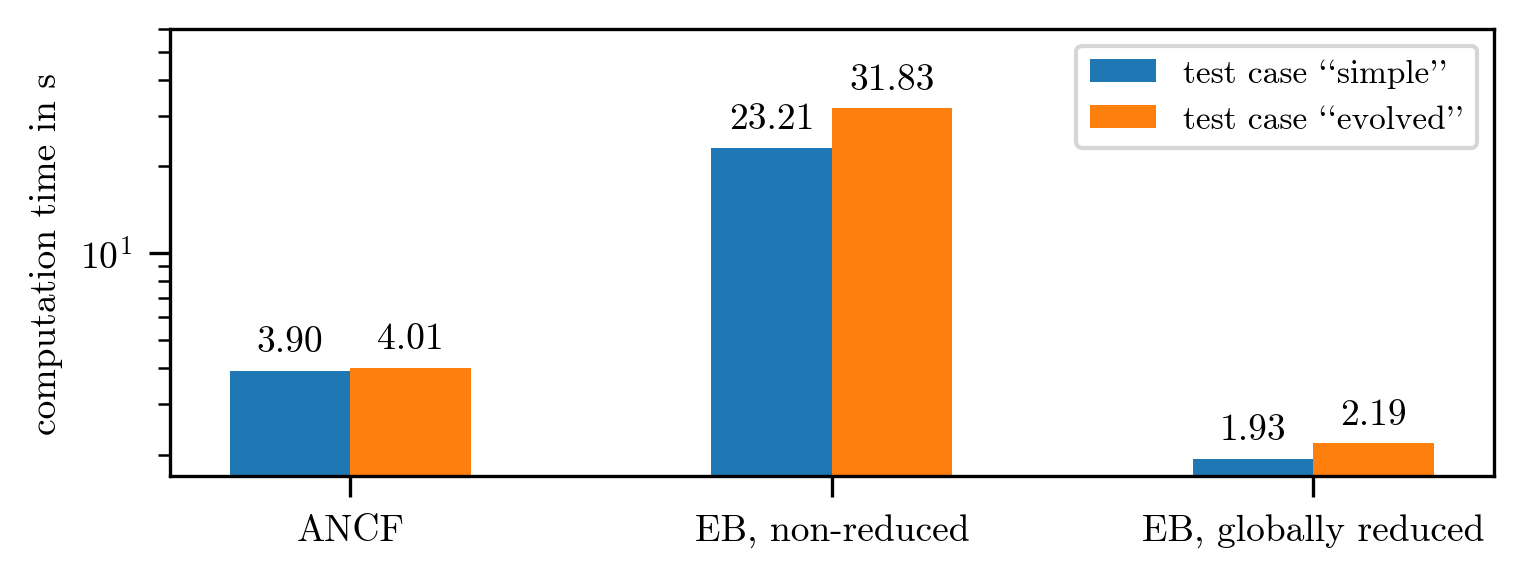
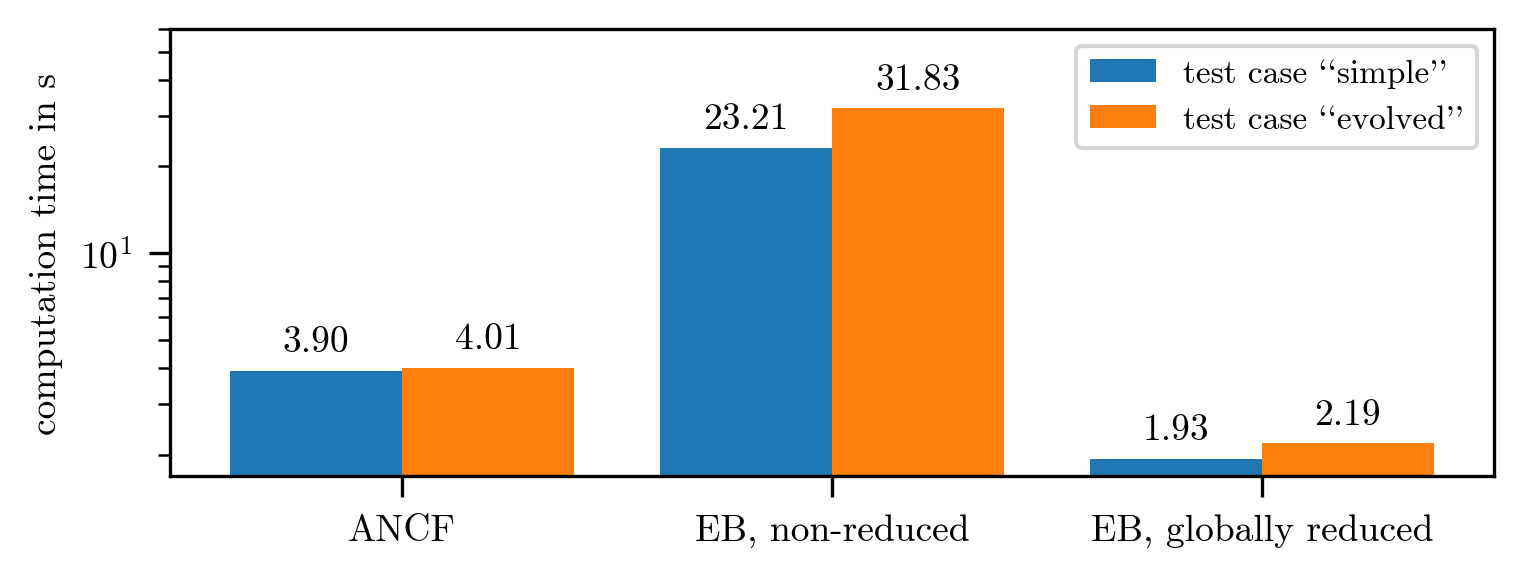
changed NRMSEVector to NRMSE to handle all cases, updated figures

diff --git a/src/dynamicsLab.py b/src/dynamicsLab.py
@@ -16,7 +16,7 @@
 #           (4) the computational object if necessary (e.g. List, PerPairList).
 #           For running all experiments, expect long runs (> 3h).
 # Author:   Sebastian Weyrer
-# Date:     2026-05-15
+# Date:     2026-05-19
 #
 #+++++++++++++++++++++++++++++++++++++++++++++++++++++++++++++++++++++++++++++
 
@@ -42,7 +42,7 @@ print('EXUDYN says hello with version', exu.config.Version() + '.')
 # decide whether only to load results or produce them
 onlyLoadResults = True  # if False, expect long execution time due to expensive tests
 fastComputation = False # if True and not onlyLoadResults, a fast results file is written to check sanity
-saveFigures = False
+saveFigures = True
 
 #++++++++++++++++++++++++++++++++++++++++++++++++++
 # default setup of beam reference parameters and one reference beam (that is used for some illustrations, ...)
@@ -431,7 +431,7 @@ normDisplacementErrorRePMRList = []
 for qRePMROfPairList in qRePMRList:
     normDisplacementErrorRePMROfPairList = []
     for qRePMR in qRePMROfPairList:
-        normDisplacementErrorRePMROfPairList += [NRMSEVector(qRePMR[:, 1::beamRefNR.nDOFsPerNode], qReNR[:, 1::beamRefNR.nDOFsPerNode])]
+        normDisplacementErrorRePMROfPairList += [NRMSE(qRePMR[:, 1::beamRefNR.nDOFsPerNode], qReNR[:, 1::beamRefNR.nDOFsPerNode])]
         nAnalyses += 1
     normDisplacementErrorRePMRList += [np.mean(normDisplacementErrorRePMROfPairList)]
 print('Loading a total of', nAnalyses, 'analyses.')
@@ -572,7 +572,7 @@ for qScPMROfPairList in qScPMRList:
     normDisplacementErrorScPMROfPairList = []
     strainSumErrorScPMROfPairList = []
     for qScPMR in qScPMROfPairList:
-        normDisplacementErrorScPMROfPairList += [min(NRMSEVector(qScPMR[:, 1::beamRefNR.nDOFsPerNode], qReNR[:, 1::beamRefNR.nDOFsPerNode]), 1)]
+        normDisplacementErrorScPMROfPairList += [min(NRMSE(qScPMR[:, 1::beamRefNR.nDOFsPerNode], qReNR[:, 1::beamRefNR.nDOFsPerNode]), 1)]
         strainSumErrorScPMROfPairList += [abs(strainSumScNR-beamRefNR.GetSumOfBeamStrainEnergy(qScPMR))]
     normDisplacementErrorScPMRList += [normDisplacementErrorScPMROfPairList]
     strainSumErrorScPMRList += [strainSumErrorScPMROfPairList]
@@ -602,12 +602,13 @@ for i, normDisplacementErrorScPMROfPairList in enumerate(normDisplacementErrorSc
         axErrorSc[0].fill_between(xShaded, 0, yShaded, alpha=0.2, color=f'C{i}')
 for ax in axErrorSc:
     ax.grid()
-axErrorSc[0].invert_xaxis()
+# axErrorSc[0].invert_xaxis()
 axErrorSc[1].legend()
-axErrorSc[0].set_xticks(np.arange(3, nGlobalModesMax+3, 3))
+axErrorSc[0].set_xticks(np.arange(3, nGlobalModesMax, 3))
 axErrorSc[0].set_ylabel('normalized RMS error\nbeam y-displacement')
 axErrorSc[1].set_ylabel('abs. strain sum\nerror in J')
 axErrorSc[1].set_xlabel(r'number $n_\mathrm{glob.}$ of global modes in global reduction basis')
+axErrorSc[1].set_xlim([2, nGlobalModesMax])
 figErrorSc.tight_layout()
 SaveFig(figErrorSc, figPath, 'E_selectedCombosError', closeFig=False, saveFig=saveFigures)
 figSingularValuesSc, axSingularValuesSc = plt.subplots(1, 1, figsize=[textWidth, 2.2])
@@ -736,11 +737,11 @@ for i in range(2):
     displacementANCF = outputDictHNumANCFPerTestCaseList[i]['OutputVariableType.Displacement']
     qHNumNR = qHNumNRPerTestCaseList[i]
     qHNumPMR = qHNumPMRPerTestCaseList[i]
-    displacementErrorNRANCF = NRMSEVector(qHNumNR[:, 1::beamRefNR.nDOFsPerNode], displacementANCF[:, 1::3])
+    displacementErrorNRANCF = NRMSE(qHNumNR[:, 1::beamRefNR.nDOFsPerNode], displacementANCF[:, 1::3])
     print('norm. Beam Displacement; NR against ANCF:\t', round(displacementErrorNRANCF, 4))
-    displacementErrorPMRANCF = NRMSEVector(qHNumPMR[:, 1::beamRefNR.nDOFsPerNode], displacementANCF[:, 1::3])
+    displacementErrorPMRANCF = NRMSE(qHNumPMR[:, 1::beamRefNR.nDOFsPerNode], displacementANCF[:, 1::3])
     print('norm. Beam Displacement; PMR against ANCF:\t', round(displacementErrorPMRANCF, 4))
-    displacementErrorPMRNR = NRMSEVector(qHNumPMR[:, 1::beamRefNR.nDOFsPerNode], qHNumNR[:, 1::beamRefNR.nDOFsPerNode])
+    displacementErrorPMRNR = NRMSE(qHNumPMR[:, 1::beamRefNR.nDOFsPerNode], qHNumNR[:, 1::beamRefNR.nDOFsPerNode])
     print('norm. Beam Displacement; PMR against NR:\t', round(displacementErrorPMRNR, 4))
     tipDisplacementErrorNRANCF = NRMSE(qHNumNR[:, -2], displacementANCF[:, -2])
     print('norm. Tip Displacement; NR against ANCF:\t', round(tipDisplacementErrorNRANCF, 4))
@@ -890,7 +891,7 @@ for dataPerTestCaseList in dataList:
 meanComputationTimeCs = [meanComputationTimeSimpleCs, meanComputationTimeEvolvedCs]
 stdComputationTimeCs = [stdComputationTimeSimpleCs, stdComputationTimeEvolvedCs]
 x = np.arange(len(labels))
-width = 0.25
+width = 0.4
 multiplier = 0
 figCs, axCs = plt.subplots(1, 1, figsize=[textWidth, 2])
 for i in range(2):

diff --git a/src/dynamicsDemo.py b/src/dynamicsDemo.py
@@ -14,7 +14,7 @@
 #           graphics functionality for the beam but not constraints etc.. Here,
 #           'utility.py' provides functionality.
 # Author:   Sebastian Weyrer
-# Date:     2026-05-15
+# Date:     2026-05-19
 #
 #+++++++++++++++++++++++++++++++++++++++++++++++++++++++++++++++++++++++++++++
 
@@ -351,12 +351,12 @@ plt.tight_layout()
 #%% compute one scalar error value
 NRMSENR = NRMSE(qNR[:, -2], outputDictANCF['OutputVariableType.Displacement'][:, -2])
 NRMSEPMR = NRMSE(qPMR[:, -2], outputDictANCF['OutputVariableType.Displacement'][:, -2])
-print('Non-reduced NRMS tip-displacement error against ANCF:', str(round(NRMSENR*100, 2)) + '%.')
-print('Globally reduced NRMS tip-displacement error:', str(round(NRMSEPMR*100, 2)) + '%.')
-NRMSEVectorAgainstANCF = NRMSEVector(qNR[:, 1::beamNR.nDOFsPerNode], outputDictANCF['OutputVariableType.Displacement'][:, 1::3])
-NRMSEVectorAgainstNR = NRMSEVector(qPMR[:, 1::beamPMR.nDOFsPerNode], qNR[:, 1::beamNR.nDOFsPerNode])
-print('Non-reduced NRMS beam-displacement error against ANCF:', str(round(NRMSEVectorAgainstANCF*100, 2)) + '%.')
-print('Globally reduced NRMS whole beam error against NR:', str(round(NRMSEVectorAgainstNR*100, 2)) + '%.')
+print('Non-reduced NRMS tip-displacement error against ANCF:\t\t', str(round(NRMSENR*100, 2)) + '%.')
+print('Globally reduced NRMS tip-displacement error against ANCF:\t', str(round(NRMSEPMR*100, 2)) + '%.')
+NRMSEVectorAgainstANCF = NRMSE(qNR[:, 1::beamNR.nDOFsPerNode], outputDictANCF['OutputVariableType.Displacement'][:, 1::3])
+NRMSEVectorAgainstNR = NRMSE(qPMR[:, 1::beamPMR.nDOFsPerNode], qNR[:, 1::beamNR.nDOFsPerNode])
+print('Non-reduced NRMS beam-displacement error against ANCF:\t\t', str(round(NRMSEVectorAgainstANCF*100, 2)) + '%.')
+print('Globally reduced NRMS beam-displacement error against NR:\t', str(round(NRMSEVectorAgainstNR*100, 2)) + '%.')
 
 #%% plot the energies over time
 # compute the energies

diff --git a/src/utilities.py b/src/utilities.py
@@ -2,7 +2,7 @@
 #
 # Details:  Utilities for the 'BoomPMR'-Project.
 # Author:   Sebastian Weyrer
-# Date:     2026-04-23
+# Date:     2026-05-19
 #
 #+++++++++++++++++++++++++++++++++++++++++++++++++++++++++++++++++++++++++++++
 
@@ -356,11 +356,12 @@ def SMA(time, data, window, SMAMode):
         timeSMA = time # do not trim
     return timeSMA, SMA
 
-# helper function for the Normalized Root-Mean-Square Error (NRMSE) of a scalar signal
-def NRMSE(signal, reference):
-    rmse = np.sqrt(np.mean((signal - reference)**2))
-    norm = np.max(reference) - np.min(reference)
-    return rmse / norm
+# helper function to compute the normalized RMSE of a 1D or nD signal
+def NRMSE(signal, reference, axis=0, eps=1e-10):
+    norm = np.sqrt(np.mean(reference**2, axis=axis))
+    rmse = np.sqrt(np.mean((signal - reference)**2, axis=axis))
+    mask = norm > eps
+    return np.mean(rmse[mask] / norm[mask])
 
 # helper function to get the Root Mean Square (RMS) of a signal
 def RMSE(signal, reference):
@@ -368,14 +369,6 @@ def RMSE(signal, reference):
 
 def AbsError(signal, reference):
     return np.linalg.norm(signal-reference)
-
-# helper function for the Normalized Root-Mean-Square Error (NRMSE) of a vector signal
-def NRMSEVector(signal, reference):
-    # signal, reference: [nTimeSteps, nNodes]
-    norm = np.sqrt(np.mean(reference**2, axis=0))  # RMS normalization of each coordinate
-    rmse = np.sqrt(np.mean((signal - reference)**2, axis=0)) # RMS error over time, per node
-    mask = norm > 1e-10
-    return np.mean(rmse[mask] / norm[mask]) # return normalized RMS error
 
 # helper function to get some standard simulation and visualization settings within EXUDYN
 def GetStandardSimulationAndSetVisualizationSettings(tEnd, h, exportFrames=False):
